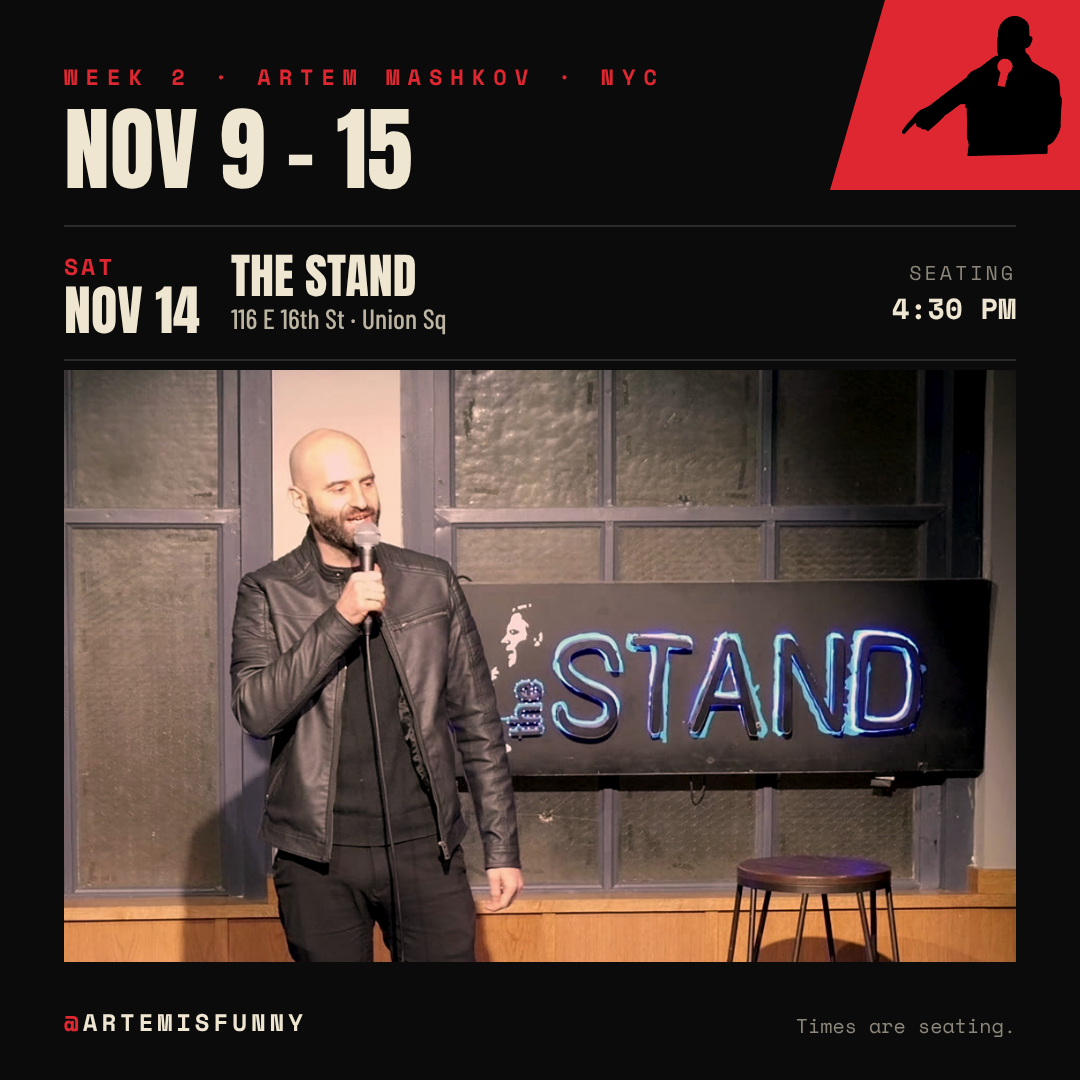
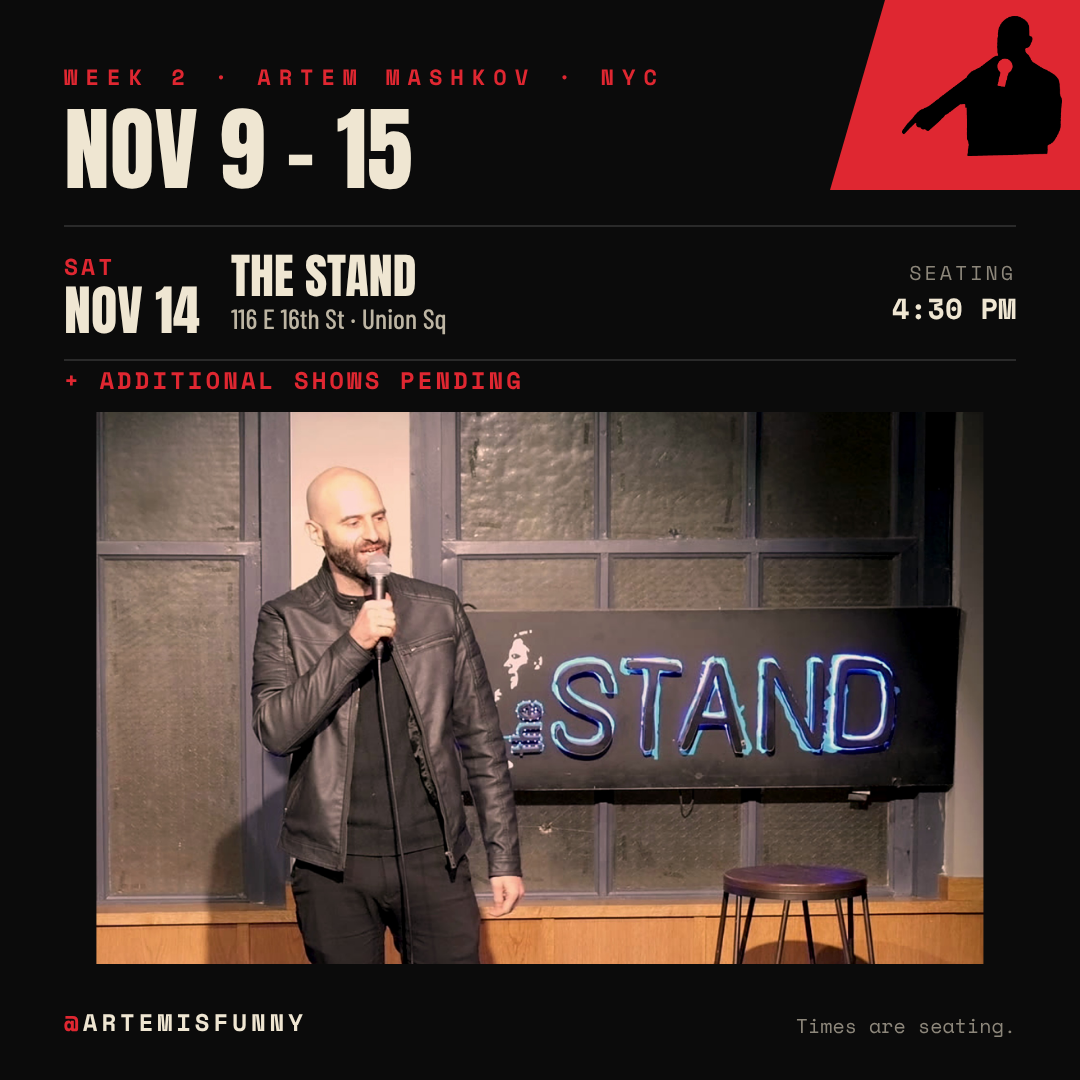
November post: Dec 4 line on cover, additional shows pending on week 2
Claude-Session: https://claude.ai/code/session_01EF93tgUVhVexTD3MFBJ81b

Changed region(s): [[0.0611, 0.3361, 0.9472, 0.9167]]

diff --git a/nyc-november-2026/build.py b/nyc-november-2026/build.py
@@ -124,6 +124,10 @@ def cover():
 <div style="position:absolute;left:56px;width:515px;top:282px">
   {compact_rows(SHOWS)}
 </div>
+<div style="position:absolute;left:56px;top:880px">
+  <span class="mono" style="font-size:18px;font-weight:700;color:{RED};letter-spacing:4px">DEC 4</span>
+  <span class="anton" style="font-size:38px;margin-left:12px">DEPORTED TO SWITZERLAND</span>
+</div>
 <div class="mono" style="position:absolute;left:56px;top:968px;font-size:17px;color:#8d877b">Times are seating. Final tickets: link in bio.</div>
 <div class="handle" style="left:56px;bottom:30px;font-size:22px"><b>@</b>ARTEMISFUNNY</div>
 <div class="mono" style="position:absolute;right:24px;bottom:28px;font-size:18px;font-weight:700;background:#0b0b0bcc;padding:4px 10px">BY WEEK →</div>
@@ -162,7 +166,8 @@ def story():
 
 
 STAND_PHOTO = Path("/mnt/project-files/photos/stills-bank/thestand-2026-03-21/smile/stand_24_0.jpg").as_uri()
-PHOTO_BAND = f"""<img src="{STAND_PHOTO}" style="position:absolute;left:64px;top:370px;width:952px">"""
+PHOTO_BAND = f"""<div class="mono" style="position:absolute;left:64px;top:362px;font-size:24px;font-weight:700;letter-spacing:3px;color:{RED}">+ ADDITIONAL SHOWS PENDING</div>
+<img src="{STAND_PHOTO}" style="position:absolute;left:50%;transform:translateX(-50%);top:412px;height:552px">"""
 
 OUTRO = f"""<div style="position:absolute;left:64px;top:760px">
   <div class="mono" style="font-size:22px;font-weight:700;color:{RED};letter-spacing:4px">DEC 4</div>
